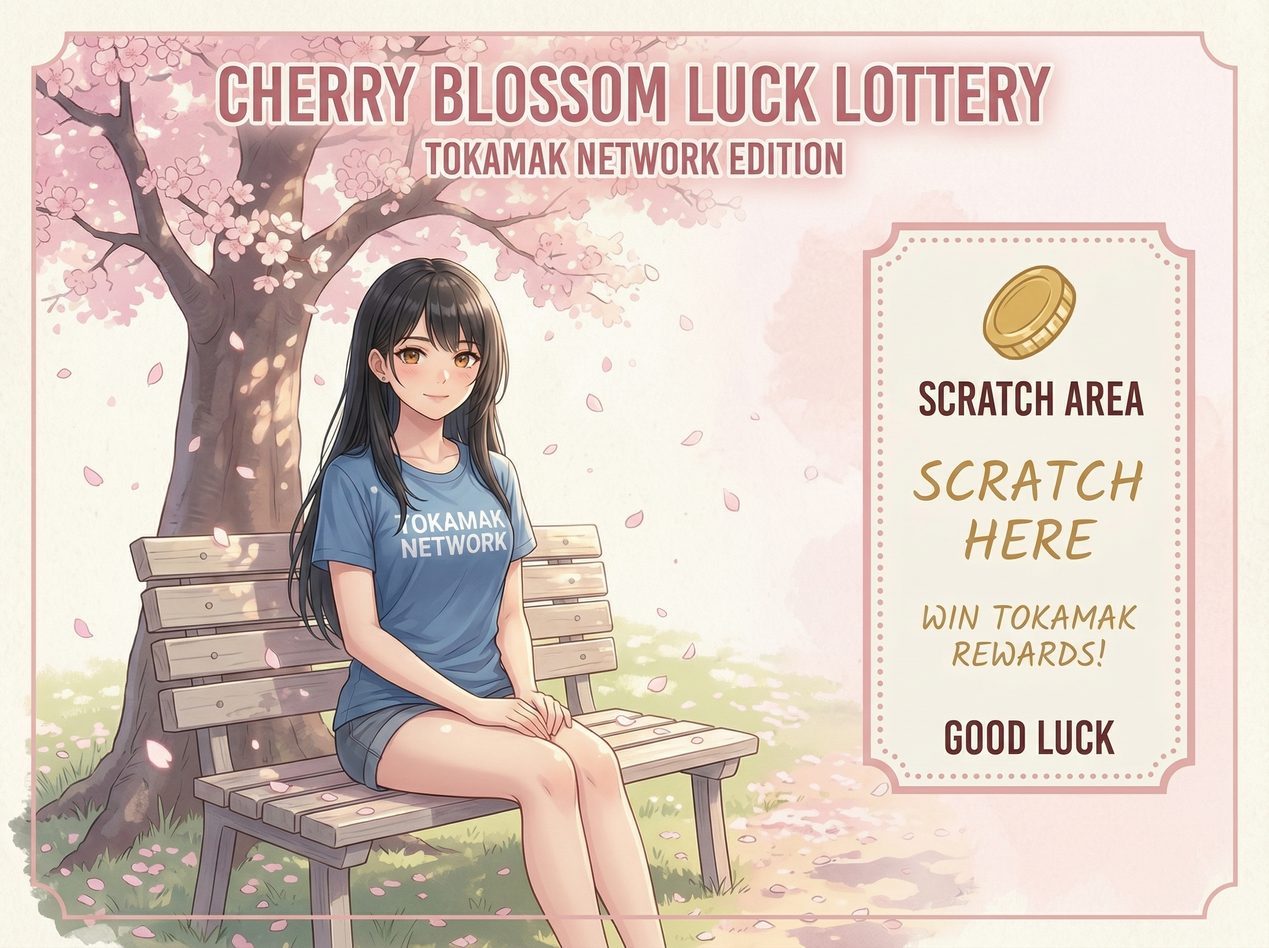
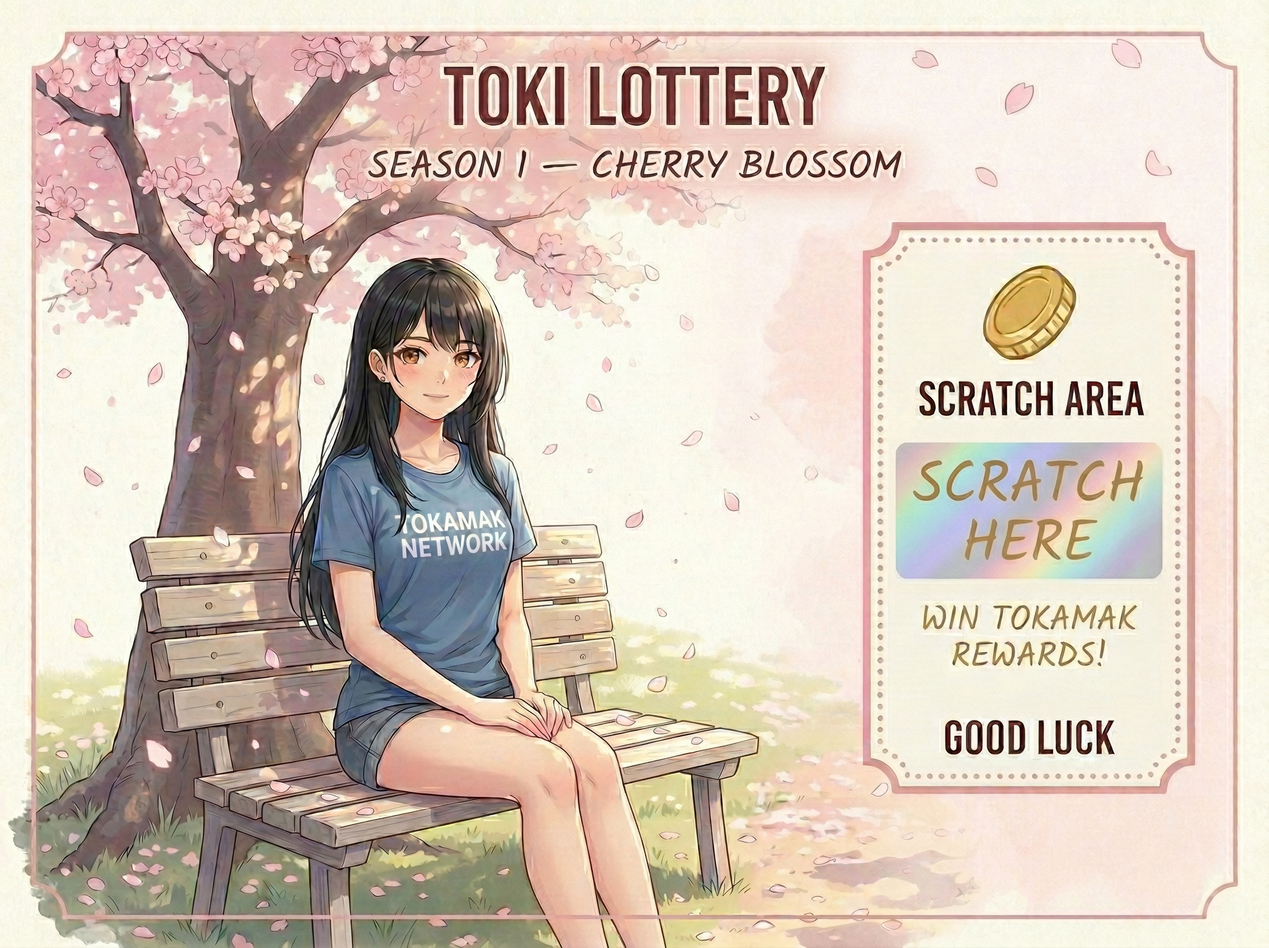
feat: rebrand to TOKI LOTTERY, add real APR, and polish lottery UI
- Rename from "Cherry Blossom Lottery" to "TOKI LOTTERY" with seasonal subtitle
- Add Tokamak Network logo to powered-by footer
- Fetch real on-chain staking APR via fetchStakingData() in AprCard
- Update exchange slide copy to emphasize project credibility over trading ease
- Replace lottery card preview image with corrected TOKI LOTTERY design
- Apply cherry blossom theme to claim page loading/error states
- Add precise expiry date display in discount QR card

diff --git a/src/app/lottery/claim/page.tsx b/src/app/lottery/claim/page.tsx
@@ -49,7 +49,12 @@ export default function LotteryClaimPage() {
   // ── Loading ──────────────────────────────────────────────────────────────────
   if (step === "loading") {
     return (
-      <main className="min-h-screen bg-background flex items-center justify-center">
+      <main
+        className="min-h-screen flex items-center justify-center"
+        style={{
+          background: "linear-gradient(180deg, #fff5f7 0%, #ffe4ec 30%, #ffd6e0 50%, #fce8ef 70%, #f5e6f0 100%)",
+        }}
+      >
         <div className="text-center space-y-4">
           <Image
             src="/characters/toki-thinking.png"
@@ -58,7 +63,7 @@ export default function LotteryClaimPage() {
             height={120}
             className="mx-auto animate-pulse-slow"
           />
-          <p className="text-gray-400 animate-pulse">카드 확인 중...</p>
+          <p className="text-pink-400 animate-pulse">카드 확인 중...</p>
         </div>
       </main>
     );
@@ -67,7 +72,12 @@ export default function LotteryClaimPage() {
   // ── Invalid / Error ──────────────────────────────────────────────────────────
   if (step === "invalid") {
     return (
-      <main className="min-h-screen bg-background flex items-center justify-center px-6">
+      <main
+        className="min-h-screen flex items-center justify-center px-6"
+        style={{
+          background: "linear-gradient(180deg, #fff5f7 0%, #ffe4ec 30%, #ffd6e0 50%, #fce8ef 70%, #f5e6f0 100%)",
+        }}
+      >
         <div className="text-center space-y-6 max-w-sm">
           <Image
             src="/characters/toki-thinking.png"
@@ -77,13 +87,16 @@ export default function LotteryClaimPage() {
             className="mx-auto"
           />
           <div className="space-y-2">
-            <h2 className="text-xl font-bold text-white">앗, 문제가 생겼어!</h2>
-            <p className="text-sm text-gray-400">{error}</p>
+            <h2 className="text-xl font-bold text-pink-950">앗, 문제가 생겼어!</h2>
+            <p className="text-sm text-pink-900/50">{error}</p>
           </div>
           <a
             href="/lottery"
-            className="inline-block py-3 px-6 rounded-xl font-bold
-              bg-white/10 text-white hover:bg-white/20 transition-colors"
+            className="inline-block py-3 px-6 rounded-xl font-bold transition-colors text-white"
+            style={{
+              background: "linear-gradient(135deg, #ec4899 0%, #a855f7 100%)",
+              boxShadow: "0 4px 20px rgba(236,72,153,0.25)",
+            }}
           >
             다시 입력하기
           </a>

diff --git a/src/components/lottery/LotteryChatFlow.tsx b/src/components/lottery/LotteryChatFlow.tsx
@@ -6,6 +6,7 @@ import { usePrivy } from "@privy-io/react-auth";
 import { QRCodeSVG } from "qrcode.react";
 import { PRIZE_TIERS, type PrizeTier } from "@/constants/lottery";
 import { useSpeechRecognition } from "@/hooks/useSpeechRecognition";
+import { fetchStakingData } from "@/lib/staking";
 import MicButton from "@/components/chat/MicButton";
 import VoiceIndicator from "@/components/chat/VoiceIndicator";
 
@@ -151,6 +152,14 @@ function PrizeRevealCard({ prize, tier }: { prize: typeof PRIZE_TIERS[PrizeTier]
 // ─── APR highlight card ───────────────────────────────────────────────────────
 
 function AprCard() {
+  const [apr, setApr] = useState<number | null>(null);
+
+  useEffect(() => {
+    fetchStakingData()
+      .then((data) => setApr(data.apr))
+      .catch(() => setApr(null));
+  }, []);
+
   return (
     <div
       className="rounded-xl border border-pink-300/30 mt-2 p-3 overflow-hidden relative"
@@ -165,7 +174,7 @@ function AprCard() {
         className="text-2xl font-black tracking-tight text-pink-600"
         style={{ textShadow: "0 0 20px rgba(236,72,153,0.3)" }}
       >
-        ~XX% APR
+        {apr !== null ? `~${apr.toFixed(1)}% APR` : "loading..."}
       </p>
     </div>
   );
@@ -421,7 +430,15 @@ function QrResultCard({
           </div>
           <div className="flex justify-between items-center py-1.5">
             <span className="text-pink-900/50 font-medium">유효기간</span>
-            <span className="text-pink-950/70">오늘 자정까지</span>
+            <span className="text-pink-950/70">
+              {(() => {
+                const now = new Date();
+                const y = now.getFullYear();
+                const m = now.getMonth() + 1;
+                const d = now.getDate();
+                return `${y}년 ${m}월 ${d}일 23:59까지`;
+              })()}
+            </span>
           </div>
         </div>
       </div>

diff --git a/src/locales/ko.ts b/src/locales/ko.ts
@@ -783,7 +783,7 @@ const ko = {
     slide1Line1: "반가워! 네가 받은 TON은 토카막 네트워크의 토큰이야~",
     slide1Line2: "토카막 네트워크는 2017년부터 이더리움 생태계에서 꾸준히 개발해온 한국 블록체인 프로젝트야. 8년 넘게 살아남은 프로젝트는 많지 않거든~",
     slide2Line1: "TON은 업비트, 빗썸, 코인원, 고팍스 — 국내 4대 거래소에 모두 상장돼 있어!",
-    slide2Line2: "어디서든 쉽게 사고팔 수 있다는 뜻이지~",
+    slide2Line2: "그만큼 검증된 프로젝트라는 뜻이야~ 실체 있는 프로젝트만 상장될 수 있거든!",
     slide3Line1: "스테이킹은 은행에 돈을 맡기고 이자를 받는 것처럼, TON을 네트워크에 맡겨서 보상을 받는 거야!",
     slide3Line2: "맡긴 TON은 네트워크를 안전하게 지키는 데 쓰여. 그 대가로 보상이 자동으로 쌓이는 거지!",
     slide3Apr: "현재 스테이킹 수익률",
@@ -810,7 +810,7 @@ const ko = {
     discountAmount: "할인 금액",
     discountCardNumber: "카드 번호",
     discountExpiry: "유효기간",
-    discountExpiryValue: "오늘 자정까지",
+    discountExpiryValue: "{year}년 {month}월 {day}일 23:59까지",
     discountFooter: "토키 계정이 만들어졌어요! 나중에 toki.tokamak.network에서 다시 만나~",
     // TON success
     tonSentTitle: "전송 완료!",

diff --git a/src/app/lottery/page.tsx b/src/app/lottery/page.tsx
@@ -196,10 +196,10 @@ export default function LotteryPage() {
                 animation: "shimmer 4s ease-in-out infinite",
               }}
             >
-              Cherry Blossom Lottery
+              TOKI LOTTERY
             </h1>
             <p className="text-xs text-pink-400/70 tracking-widest uppercase font-medium">
-              Tokamak Network Edition
+              Season 1 — Cherry Blossom
             </p>
           </div>
 
@@ -283,13 +283,13 @@ export default function LotteryPage() {
             </div>
 
             {/* Powered by */}
-            <div className="flex items-center justify-center gap-2">
-              <div
-                className="w-4 h-4 rounded-full flex-shrink-0"
-                style={{
-                  background: "linear-gradient(135deg, #ec4899 0%, #a855f7 100%)",
-                  boxShadow: "0 0 6px rgba(236,72,153,0.4)",
-                }}
+            <div className="flex items-center justify-center gap-1.5">
+              <Image
+                src="/toki-logo.png"
+                alt="Tokamak Network"
+                width={16}
+                height={16}
+                className="flex-shrink-0 opacity-50"
               />
               <p className="text-[10px] text-pink-400/60 tracking-wider uppercase font-medium">
                 Powered by Tokamak Network

diff --git a/src/locales/en.ts b/src/locales/en.ts
@@ -788,7 +788,7 @@ const en = {
     slide1Line1: "Hi there! The TON you won is a token from Tokamak Network~",
     slide1Line2: "Tokamak Network has been building in the Ethereum ecosystem since 2017. Not many projects survive 8+ years!",
     slide2Line1: "TON is listed on all 4 major Korean exchanges — Upbit, Bithumb, Coinone, and GOPAX!",
-    slide2Line2: "That means you can easily buy and sell it anywhere~",
+    slide2Line2: "That means it's a verified, trusted project~ Only legit projects get listed on all major exchanges!",
     slide3Line1: "Staking is like depositing money in a bank and earning interest — you deposit TON to the network and earn rewards!",
     slide3Line2: "Your staked TON helps secure the network. In return, rewards accumulate automatically!",
     slide3Apr: "Current Staking APR",
@@ -815,7 +815,7 @@ const en = {
     discountAmount: "Discount amount",
     discountCardNumber: "Card number",
     discountExpiry: "Valid until",
-    discountExpiryValue: "Midnight tonight",
+    discountExpiryValue: "Until {year}-{month}-{day} 23:59",
     discountFooter: "Your Toki account has been created! Visit toki.tokamak.network anytime~",
     // TON success
     tonSentTitle: "Transfer Complete!",

diff --git a/src/components/lottery/LotteryOnboarding.tsx b/src/components/lottery/LotteryOnboarding.tsx
@@ -26,7 +26,7 @@ const SLIDES: Slide[] = [
     mood: "proud",
     lines: [
       "TON은 업비트, 빗썸, 코인원, 고팍스 — 국내 4대 거래소에 모두 상장돼 있어!",
-      "어디서든 쉽게 사고팔 수 있다는 뜻이지~",
+      "그만큼 검증된 프로젝트라는 뜻이야~ 실체 있는 프로젝트만 상장될 수 있거든!",
     ],
     extra: "exchanges",
   },
